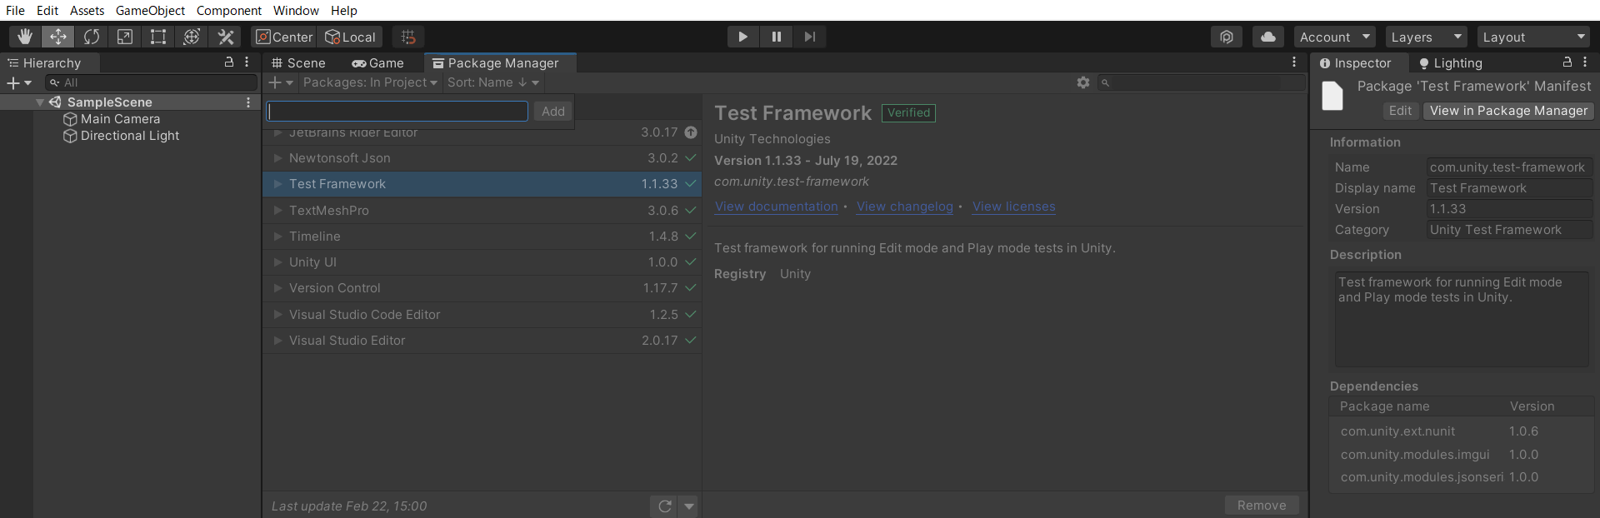
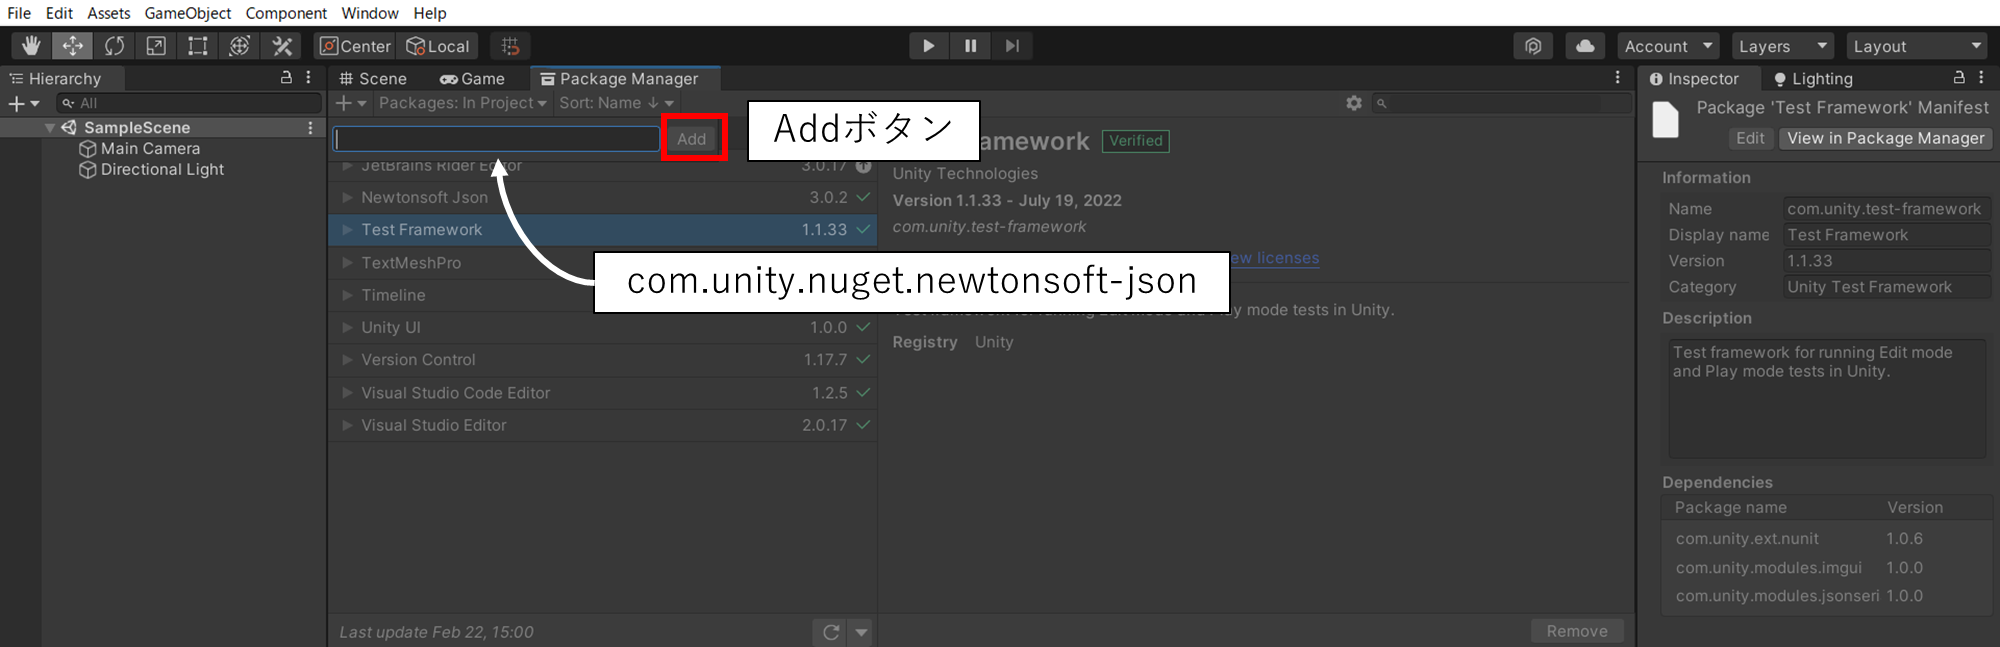
ドキュメント作成

diff --git a/articles/HowToUse.md b/articles/HowToUse.md
@@ -1,1 +1,30 @@
 # 使い方
+ここでは、歩行シミュレーション結果アセットの使い方を記載します。
+
+## 実行準備
+1. 「PLATEAU-UC22-023-Pedestrian-Simulation-Result-Viewer.zip」内にある、「simulation-result」内にある下記6ファイルを、「Assets」と同じディレクトリに格納してください。
+![](../images/folder-copy.png)
+- 平日_平常時
+- 平日_イベント実施・広告設置時
+- 平日_イベント実施・広告非設置時
+- 土日祝日_平常時
+- 土日祝日_イベント実施・広告設置時
+- 土日祝日_イベント実施・広告非設置時
+
+2. また、「simulation-result」内には「simulation-log.zip」が格納されているので同ファイルを併せて解凍してください。
+
+3. 「simulation-log.zip」を解凍すると、下記6ファイルが含まれています。下記ファイルを1. で格納したディレクトリに格納してください。
+- agent_log_平日_平常時.csv　（-> 「平日_平常時」直下に格納してください。）
+- agent_log_平日_イベント実施・広告設置時.csv　（-> 「平日_イベント実施・広告設置時」直下に格納してください。）
+- agent_log_平日_イベント実施・広告非設置時.csv　（-> 「平日_イベント実施・広告非設置時」直下に格納してください。）
+- agent_log_土日祝日_平常時.csv　（-> 「土日祝日_平常時」直下に格納してください。）
+- agent_log_土日祝日_イベント実施・広告設置時.csv　（-> 「土日祝日_イベント実施・広告設置時」直下に格納してください。）
+- agent_log_土日祝日_イベント実施・広告非設置時.csv　（-> 「土日祝日_イベント実施・広告非設置時」直下に格納してください。）
+![](../images/csv_copy.png)
+
+## 実行
+1. 実行ボタンを押すと、データのロードが始まります。
+2. 「Game」画面に移り、実行するシナリオをGame画面上部プルダウンから選択し、「Loac Scenario」を押すと、シミュレーション結果データが読み込まれます。
+
+## 注意事項
+- 本アセットに、3D都市モデルは含まれておりません。

diff --git a/articles/NecessaryLicenses.md b/articles/NecessaryLicenses.md
@@ -3,14 +3,15 @@
 
 ## 必要ライセンス
 - Unity Personal以上
+    - 参考：[Unity Choose the plan that is right for you](https://store.unity.com/compare-plans)
 
 ## 必要パッケージ
 - Newtonsoft Json
     - インストールの方法は次の手順の通りです。
-    1. Unityプロジェクトを立ち上げると、「Package Manager」がタブに表示されます。
+1. Unityプロジェクトを立ち上げると、「Package Manager」がタブに表示されます。
     ![](../images/unity-open.png)
-    2. そのタブをクリックし、「+」ボタンを押すと、「Add package from git URL…」が表示されるので、クリックします。
+2. そのタブをクリックし、「+」ボタンを押すと、「Add package from git URL…」が表示されるので、クリックします。
     ![](../images/package_manager.png)
-    3. テキストボックスが表示されるので、「com.unity.nuget.newtonsoft-json」と記入します。
+3. テキストボックスが表示されるので、「com.unity.nuget.newtonsoft-json」と記入します。
     ![](../images/package_manager_insert_url.png)
-    4. 「Add」ボタンを押すと、インストールが完了します。
+4. 「Add」ボタンを押すと、インストールが完了します。

diff --git a/articles/UnityInstallation.md b/articles/UnityInstallation.md
@@ -1,1 +1,18 @@
 # 参考：Unityのインストール方法
+ここでは、Unityのインストール方法について記載します。
+
+## 対応Unityのインスト―ル
+1. Unity Hubをインストールします。Unity Hubは[こちら](https://unity.com/ja/unity-hub)からダウンロードできます。
+- Unity HubはUnityの任意のバージョンをインストールして起動できるソフトウェアです。
+
+2. Unity Hubを起動し、サイドバーから「Installs」→「Install Editor」をクリックします。
+![](../images/unity-version-install.png)
+
+3. Unityのバージョンをインストールします。なお、歩行シミュレーション結果アセットでは、Unity LTS Release2021.3.19f1（2023年1月時点における長期サポートバージョン）での動作を確認しています。
+
+## Unityプロジェクトの作成
+1. Unity Hubのサイドバーから「Projects」を押し、右上の「New Project」からUnityプロジェクトを作成します。
+![](../images/unity-create-project.png)
+
+2. Unityプロジェクト作成の際、「Editor Version」を設定のうえ、テンプレートを「3D」とし、任意のプロジェクト名を付け作成します。
+

diff --git a/articles/Environments.md b/articles/Environments.md
@@ -2,7 +2,8 @@
 ここでは、歩行シミュレーション結果アセットに必要な動作環境、ソフトウェアを記載します。
 
 ## 動作環境
-- Unity LTS Release2021.3.17f1
+- Unity LTS Release2021.3.19f1
     - 2023年1月時点における長期サポートバージョン
+    - 参考：[Unity Long Term Support](https://unity.com/releases/editor/qa/lts-releases)
 
 Unityのインストールについては、[こちら](UnityInstallation.md)をご覧ください。

diff --git a/articles/Installation.md b/articles/Installation.md
@@ -7,4 +7,4 @@
 2. ダウンロードされた「PLATEAU-UC22-023-Pedestrian-Simulation-Result-Viewer.zip」ファイルを解凍し、「pedestrianflowviewer.unitypackage」を取得します。
 
 3. Unity Editorを起動し、「Import Package」>「Custom Package」から「pedestrianflowviewer.unitypackage」を取り込みます。
-[](../images/import-packages.png)
+![](../images/import-packages.png)
